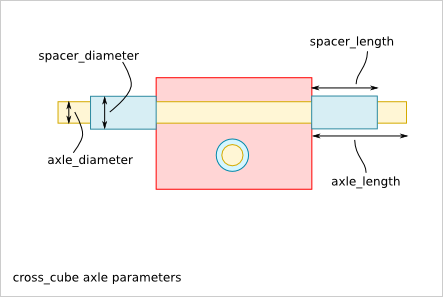
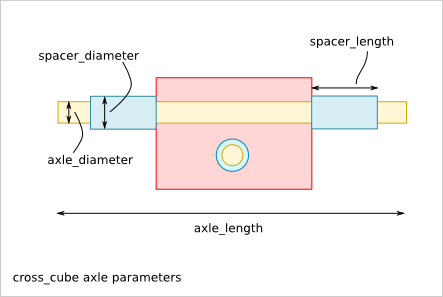
[cross_cube] parameter check

diff --git a/cnc25d/cross_cube.py b/cnc25d/cross_cube.py
@@ -65,10 +65,10 @@ def cross_cube_dictionary_init(ai_variant=0):
   # height
   r_cc['axle_diameter']       = 10.0
   r_cc['inter_axle_length']   = 15.0
-  r_cc['height_margin']       = 6.0
+  r_cc['height_margin']       = 10.0
   r_cc['top_thickness']       = 5.0
   # width
-  r_cc['cube_width']          = 50.0
+  r_cc['cube_width']          = 60.0
   r_cc['face_A1_thickness']   = 9.0
   r_cc['face_A2_thickness']   = 7.0
   r_cc['face_B1_thickness']   = 8.0
@@ -76,28 +76,29 @@ def cross_cube_dictionary_init(ai_variant=0):
   ### threaded rod
   # face
   r_cc['face_rod_hole_diameter']    = 4.0
-  r_cc['face_rod_hole_h_distance']  = 3.0
-  r_cc['face_rod_hole_v_distance']  = 3.0
+  r_cc['face_rod_hole_h_distance']  = 5.0
+  r_cc['face_rod_hole_v_distance']  = 5.0
   # top
   r_cc['top_rod_hole_diameter']     = 4.0
-  r_cc['top_rod_hole_h_distance']   = 8.0
+  r_cc['top_rod_hole_h_distance']   = 10.0
   ### hollow
   # face hollow
   r_cc['face_hollow_leg_nb']            = 1 # possible values: 1 (filled), 4, 8
-  r_cc['face_hollow_border_width']      = 5.0
-  r_cc['face_hollow_axle_width']     = 5.0
-  r_cc['face_hollow_leg_width']         = 5.0
-  r_cc['face_hollow_smoothing_radius']  = 5.0
+  r_cc['face_hollow_border_width']      = 0.0
+  r_cc['face_hollow_axle_width']        = 0.0
+  r_cc['face_hollow_leg_width']         = 0.0
+  r_cc['face_hollow_smoothing_radius']  = 0.0
   # top hollow
   r_cc['top_hollow_leg_nb']             = 0 # possible values: 0 (empty), 1 (filled), 4, 8
-  r_cc['top_hollow_border_width']       = 5.0
-  r_cc['top_hollow_leg_width']          = 5.0
-  r_cc['top_hollow_smoothing_radius']   = 5.0
+  r_cc['top_hollow_border_width']       = 0.0
+  r_cc['top_hollow_leg_width']          = 0.0
+  r_cc['top_hollow_smoothing_radius']   = 0.0
   ### axle
-  r_cc['axle_length']                   = 30.0
-  r_cc['spacer_diameter']               = 14.0
-  r_cc['spacer_length']                 = 20.0
+  r_cc['axle_length']                   = 0.0
+  r_cc['spacer_diameter']               = 0.0
+  r_cc['spacer_length']                 = 0.0
   ### manufacturing
+  r_cc['cross_cube_cnc_router_bit_radius']  = 1.0
   r_cc['cross_cube_extra_cut_thickness']  = 0.0
   ### output
   if(ai_variant!=1):
@@ -124,63 +125,65 @@ def cross_cube_add_argument(ai_parser, ai_variant=0):
     help="Set the diameter of the two axles. Default: 10.0")
   r_parser.add_argument('--inter_axle_length','--ial', action='store', type=float, default=15.0, dest='sw_inter_axle_length',
     help="Set the length length betwen the two axle centers. Default: 15.0")
-  r_parser.add_argument('--height_margin','--hm', action='store', type=float, default=6.0, dest='sw_height_margin',
-    help="Set the length betwen the axle peripheral and the inner edge of the top. Default: 6.0")
+  r_parser.add_argument('--height_margin','--hm', action='store', type=float, default=10.0, dest='sw_height_margin',
+    help="Set the length betwen the axle peripheral and the inner edge of the top. Default: 10.0")
   r_parser.add_argument('--top_thickness','--tt', action='store', type=float, default=5.0, dest='sw_top_thickness',
     help="Set the thickness of the top part. Default: 5.0")
   # width
-  r_parser.add_argument('--cube_width','--cw', action='store', type=float, default=50.0, dest='sw_cube_width',
-    help="Set the outer width of the cube (for x and y). Default: 50.0")
+  r_parser.add_argument('--cube_width','--cw', action='store', type=float, default=60.0, dest='sw_cube_width',
+    help="Set the outer width of the cube (for x and y). Default: 60.0")
   r_parser.add_argument('--face_A1_thickness','--fa1t', action='store', type=float, default=9.0, dest='sw_face_A1_thickness',
-    help="Set the thickness of the face_A1 part. Default: 9.0")
+    help="Set the thickness of the face_A1 part. If equal to 0.0, set to top_thickness. Default: 9.0")
   r_parser.add_argument('--face_A2_thickness','--fa2t', action='store', type=float, default=7.0, dest='sw_face_A2_thickness',
-    help="Set the thickness of the face_A2 part. Default: 7.0")
+    help="Set the thickness of the face_A2 part. If equal to 0.0, set to top_thickness. Default: 7.0")
   r_parser.add_argument('--face_B1_thickness','--fb1t', action='store', type=float, default=8.0, dest='sw_face_B1_thickness',
-    help="Set the thickness of the face_B1 part. Default: 8.0")
+    help="Set the thickness of the face_B1 part. If equal to 0.0, set to top_thickness. Default: 8.0")
   r_parser.add_argument('--face_B2_thickness','--fb2t', action='store', type=float, default=6.0, dest='sw_face_B2_thickness',
-    help="Set the thickness of the face_B2 part. Default: 6.0")
+    help="Set the thickness of the face_B2 part. If equal to 0.0, set to top_thickness. Default: 6.0")
   ### threaded rod
   # face
   r_parser.add_argument('--face_rod_hole_diameter','--frhd', action='store', type=float, default=4.0, dest='sw_face_rod_hole_diameter',
     help="Set the diameter of the holes for threaded rod on the faces. Default: 4.0")
-  r_parser.add_argument('--face_rod_hole_h_distance','--frhhd', action='store', type=float, default=3.0, dest='sw_face_rod_hole_h_distance',
-    help="Set the horizontal position of the threaded rod center from the inner edge. Default: 3.0")
-  r_parser.add_argument('--face_rod_hole_v_distance','--frhvd', action='store', type=float, default=3.0, dest='sw_face_rod_hole_v_distance',
-    help="Set the vertical position of the threaded rod center from the inner edge. Default: 3.0")
+  r_parser.add_argument('--face_rod_hole_h_distance','--frhhd', action='store', type=float, default=5.0, dest='sw_face_rod_hole_h_distance',
+    help="Set the horizontal position of the threaded rod center from the inner edge. Default: 5.0")
+  r_parser.add_argument('--face_rod_hole_v_distance','--frhvd', action='store', type=float, default=5.0, dest='sw_face_rod_hole_v_distance',
+    help="Set the vertical position of the threaded rod center from the inner edge. Default: 5.0")
   # top
   r_parser.add_argument('--top_rod_hole_diameter','--trhd', action='store', type=float, default=4.0, dest='sw_top_rod_hole_diameter',
     help="Set the diameter of the holes for the vertical threaded rods. Default: 4.0")
-  r_parser.add_argument('--top_rod_hole_h_distance','--trhhd', action='store', type=float, default=8.0, dest='sw_top_rod_hole_h_distance',
-    help="Set the horizontal position of the vertical threaded rod center from the inner edge. Default: 8.0")
+  r_parser.add_argument('--top_rod_hole_h_distance','--trhhd', action='store', type=float, default=10.0, dest='sw_top_rod_hole_h_distance',
+    help="Set the horizontal position of the vertical threaded rod center from the inner edge. Default: 10.0")
   ### hollow
   # face hollow
   r_parser.add_argument('--face_hollow_leg_nb','--fhln', action='store', type=int, default=1, dest='sw_face_hollow_leg_nb',
     help="Set the number of legs (equivalent number of hollows) on the faces. Possible values: 1 (filled), 4, 8. Default: 1")
-  r_parser.add_argument('--face_hollow_border_width','--fhbw', action='store', type=float, default=5.0, dest='sw_face_hollow_border_width',
-    help="Set the width around the face-inner-border. Default: 5.0")
-  r_parser.add_argument('--face_hollow_axle_width','--fhaw', action='store', type=float, default=5.0, dest='sw_face_hollow_axle_width',
-    help="Set the width around the axle. Default: 5.0")
-  r_parser.add_argument('--face_hollow_leg_width','--fhlw', action='store', type=float, default=5.0, dest='sw_face_hollow_leg_width',
-    help="Set the width of the legs. Default: 5.0")
-  r_parser.add_argument('--face_hollow_smoothing_radius','--fhsr', action='store', type=float, default=5.0, dest='sw_face_hollow_smoothing_radius',
-    help="Set the radius for smoothing the face-hollow corners. Default: 5.0")
+  r_parser.add_argument('--face_hollow_border_width','--fhbw', action='store', type=float, default=0.0, dest='sw_face_hollow_border_width',
+    help="Set the width around the face-inner-border. If equal to 0.0, set to max_face_top_thickness. Default: 0.0")
+  r_parser.add_argument('--face_hollow_axle_width','--fhaw', action='store', type=float, default=0.0, dest='sw_face_hollow_axle_width',
+    help="Set the width around the axle. If equal to 0.0, set to axle_radius. Default: 0.0")
+  r_parser.add_argument('--face_hollow_leg_width','--fhlw', action='store', type=float, default=0.0, dest='sw_face_hollow_leg_width',
+    help="Set the width of the legs. If equal to 0.0, set to max(max_face_top_thickness, axle_radius). Default: 0.0")
+  r_parser.add_argument('--face_hollow_smoothing_radius','--fhsr', action='store', type=float, default=0.0, dest='sw_face_hollow_smoothing_radius',
+    help="Set the radius for smoothing the face-hollow corners. If equal to 0.0, set to cube_width/10. Default: 0.0")
   # top hollow
   r_parser.add_argument('--top_hollow_leg_nb','--thln', action='store', type=int, default=0, dest='sw_top_hollow_leg_nb',
     help="Set the number of legs (equivalent number of hollows) on the top. Possible values: 0 (empty), 1 (filled), 4, 8. Default: 0")
-  r_parser.add_argument('--top_hollow_border_width','--thbw', action='store', type=float, default=5.0, dest='sw_top_hollow_border_width',
-    help="Set the width around the top-inner-border. Default: 5.0")
-  r_parser.add_argument('--top_hollow_leg_width','--thlw', action='store', type=float, default=5.0, dest='sw_top_hollow_leg_width',
-    help="Set the width of the legs. Default: 5.0")
-  r_parser.add_argument('--top_hollow_smoothing_radius','--thsr', action='store', type=float, default=5.0, dest='sw_top_hollow_smoothing_radius',
-    help="Set the radius for smoothing the top-hollow corners. Default: 5.0")
+  r_parser.add_argument('--top_hollow_border_width','--thbw', action='store', type=float, default=0.0, dest='sw_top_hollow_border_width',
+    help="Set the width around the top-inner-border. If equal to 0.0, set to max_face_thickness. Default: 0.0")
+  r_parser.add_argument('--top_hollow_leg_width','--thlw', action='store', type=float, default=0.0, dest='sw_top_hollow_leg_width',
+    help="Set the width of the legs. If equal to 0.0, set to max_face_thickness. Default: 0.0")
+  r_parser.add_argument('--top_hollow_smoothing_radius','--thsr', action='store', type=float, default=0.0, dest='sw_top_hollow_smoothing_radius',
+    help="Set the radius for smoothing the top-hollow corners. If equal to 0.0, set to cube_width/10. Default: 0.0")
   ### axle
-  r_parser.add_argument('--axle_length','--al', action='store', type=float, default=30.0, dest='sw_axle_length',
-    help="Set the external length of the axles for the left and right sides. Default: 30.0")
-  r_parser.add_argument('--spacer_diameter','--sd', action='store', type=float, default=14.0, dest='sw_spacer_diameter',
-    help="Set the external diameter of the spacer. Default: 14.0")
-  r_parser.add_argument('--spacer_length','--sl', action='store', type=float, default=20.0, dest='sw_spacer_length',
-    help="Set the length of the spacers. Default: 20.0")
+  r_parser.add_argument('--axle_length','--al', action='store', type=float, default=0.0, dest='sw_axle_length',
+    help="Set the total length of the axles. If equal to 0.0, set to 2*cube_width. Default: 0.0")
+  r_parser.add_argument('--spacer_diameter','--sd', action='store', type=float, default=0.0, dest='sw_spacer_diameter',
+    help="Set the external diameter of the spacer. If equal to 0.0, set to 1.2*axle_diameter. Default: 0.0")
+  r_parser.add_argument('--spacer_length','--sl', action='store', type=float, default=0.0, dest='sw_spacer_length',
+    help="Set the length of the spacers. If equal to 0.0, set to (axle_length-cube_width)/4. Default: 0.0")
   ### manufacturing
+  r_parser.add_argument('--cross_cube_cnc_router_bit_radius','--cccrbr', action='store', type=float, default=1.0, dest='sw_cross_cube_cnc_router_bit_radius',
+    help="Set the minimal cnc_router_bit radius of the design. Default: 1.0")
   r_parser.add_argument('--cross_cube_extra_cut_thickness','--ccect', action='store', type=float, default=0.0, dest='sw_cross_cube_extra_cut_thickness',
     help="Set the extra-cut-thickness for the internal cross_cube cuts. It can be used to compensate the manufacturing process or to check the 3D assembly with FreeCAD. Default: 0.0")
   ### output
@@ -214,7 +217,164 @@ def cross_cube(ai_constraints):
   ################################################################
   # parameter check and dynamic-default values
   ################################################################
-
+  ### face A1, A2, B1 and B2
+  ## height
+  # axle_diameter
+  cc_c['axle_radius'] = cc_c['axle_diameter']/2.0
+  if(cc_c['axle_radius']<radian_epsilon):
+    print("ERR220: Error, axle_radius {:0.3f} must be strictly positive".format(cc_c['axle_radius']))
+    sys.exit(2)
+  # inter_axle_length
+  if(cc_c['inter_axle_length']<0):
+    print("ERR224: Error, inter_axle_length {:0.3f} must be positive".format(cc_c['inter_axle_length']))
+    sys.exit(2)
+  if(cc_c['inter_axle_length']<2*cc_c['axle_radius']):
+    print("WARN227: Warning, inter_axle_length {:0.3f} is smaller than the axle_diameter {:0.3f}".format(cc_c['inter_axle_length'], 2*cc_c['axle_radius']))
+  # height_margin
+  if(cc_c['height_margin']<radian_epsilon):
+    print("ERR229: Error, height_margin {:0.3f} must be strictly positive".format(cc_c['height_margin']))
+    sys.exit(2)
+  # top_thickness
+  if(cc_c['top_thickness']<2*cc_c['cross_cube_cnc_router_bit_radius']):
+    print("ERR232: Error, top_thickness {:0.3f} is too small compare to cross_cube_cnc_router_bit_radius {:0.3f}".format(cc_c['top_thickness'], cc_c['cross_cube_cnc_router_bit_radius']))
+    sys.exit(2)
+  if(cc_c['top_thickness']>(cc_c['inter_axle_length']+2*cc_c['axle_radius']+2*cc_c['height_margin'])/4.0):
+    print("ERR235: top_thickness {:0.3f} is too small compare to inter_axle_length {:0.3}, axle_radius {:0.3}, height_margin {:0.3}".format(cc_c['top_thickness'], cc_c['inter_axle_length'], cc_c['axle_radius'], cc_c['height_margin']))
+    sys.exit(2)
+  cube_height = cc_c['inter_axle_length'] + 2*cc_c['axle_radius'] + 2*cc_c['top_thickness']
+  ## width
+  # cube_width
+  if(cc_c['cube_width']<3*cc_c['axle_radius']):
+    print("ERR239: Error, cube_width {:0.3f} is too small compare to axle_radius {:0.3f}".format(cc_c['cube_width'], cc_c['axle_radius']))
+    sys.exit(2)
+  # face_A1_thickness, face_A2_thickness, face_B1_thickness, face_B2_thickness
+  face_thickness = [cc_c['face_A1_thickness'], cc_c['face_A2_thickness'], cc_c['face_B1_thickness'], cc_c['face_B2_thickness']]
+  max_face_thickness = max(face_thickness)
+  max_face_top_thickness = max(max_face_thickness, cc_c['top_thickness'])
+  for i in range(len(face_thickness)):
+    if(face_thickness[i]==0):
+      face_thickness[i] = cc_c['top_thickness']
+    if(face_thickness[i]<2*cc_c['cross_cube_cnc_router_bit_radius']):
+      print("ERR244: Error, face_thickness[{:d}] {:0.3f} is too small compare to cross_cube_cnc_router_bit_radius {:0.3f}".format(i, face_thickness[i], cc_c['cross_cube_cnc_router_bit_radius']))
+      sys.exit(2)
+    if(face_thickness[i]>cc_c['cube_width']/2.0-cc_c['axle_radius']):
+      print("ERR247: Error, face_thickness[{:d}] {:0.3f} is too big compare to cube_width {:0.3f} and axle_radius {:0.3f}".format(i, face_thickness[i], cc_c['cube_width'], cc_c['axle_radius']))
+      sys.exit(2)
+    if(face_thickness[i]>cc_c['cube_width']/6.0):
+      print("ERR250: Error, face_thickness[{:d}] {:0.3f} is too big compare to cube_width {:0.3f}".format(i, face_thickness[i], cc_c['cube_width']))
+      sys.exit(2)
+  ### threaded rod
+  ## face
+  # face_rod_hole_diameter
+  cc_c['face_rod_hole_radius'] = cc_c['face_rod_hole_diameter']/2.0
+  if(cc_c['face_rod_hole_radius']>0):
+    # face_rod_hole_h_distance
+    if(cc_c['face_rod_hole_h_distance']<cc_c['face_rod_hole_radius']):
+      print("ERR257: Error, face_rod_hole_h_distance {:0.3f} must be biggert than face_rod_hole_radius {:0.3f}".format(cc_c['face_rod_hole_h_distance'], cc_c['face_rod_hole_radius']))
+      sys.exit(2)
+    if(max_face_thickness+cc_c['face_rod_hole_h_distance']+cc_c['face_rod_hole_radius']>cc_c['cube_width']/2.0-cc_c['axle_radius']):
+      print("ERR261: Error, face_rod_hole_h_distance {:0.3f} is too big compare to max_face_thickness {:0.3f}, face_rod_hole_radius {:0.3f}, cube_width {:0.3f}, axle_radius {:0.3f}".format(cc_c['face_rod_hole_h_distance'], max_face_thickness, cc_c['face_rod_hole_radius'], cc_c['cube_width'], cc_c['axle_radius']))
+      sys.exit(2)
+    # face_rod_hole_v_distance
+    if(cc_c['face_rod_hole_v_distance']<cc_c['face_rod_hole_radius']):
+      print("ERR264: Error, face_rod_hole_v_distance {:0.3f} must be bigger than face_rod_hole_radius {:0.3f}".format(cc_c['face_rod_hole_v_distance'], cc_c['face_rod_hole_radius']))
+      sys.exit(2)
+    if(cc_c['face_rod_hole_v_distance']+cc_c['face_rod_hole_radius']>cc_c['height_margin']):
+      print("ERR267: Error, face_rod_hole_v_distance {:0.3f} is too big compare to face_rod_hole_radius {:0.3f} and height_margin {:0.3f}".format(cc_c['face_rod_hole_v_distance'], cc_c['face_rod_hole_radius'], cc_c['height_margin']))
+      sys.exit(2)
+  ## top
+  # top_rod_hole_diameter
+  cc_c['top_rod_hole_radius'] = cc_c['top_rod_hole_diameter']/2.0
+  if(cc_c['top_rod_hole_radius']>0):
+    # top_rod_hole_h_distance
+    if(cc_c['top_rod_hole_h_distance']<cc_c['face_rod_hole_h_distance']+cc_c['face_rod_hole_radius']+cc_c['top_rod_hole_radius']):
+      print("ERR273: Error, top_rod_hole_h_distance {:0.3f} is too small compare to face_rod_hole_h_distance {:0.3f}, face_rod_hole_radius {:0.3f} and top_rod_hole_radius {:0.3f}".format(cc_c['top_rod_hole_h_distance'], cc_c['face_rod_hole_h_distance'], cc_c['face_rod_hole_radius'], cc_c['top_rod_hole_radius']))
+      sys.exit(2)
+    if(max_face_thickness+cc_c['top_rod_hole_h_distance']+cc_c['top_rod_hole_radius']>cc_c['cube_width']/2.0-cc_c['axle_radius']):
+      print("ERR276: Error, top_rod_hole_h_distance {:0.3f} is too big compare to max_face_thickness {:0.3f}, top_rod_hole_radius {:0.3f}, cube_width {:0.3f} and axle_radius {:0.3f}".format(cc_c['top_rod_hole_h_distance'], max_face_thickness, cc_c['top_rod_hole_radius'], cc_c['cube_width'], cc_c['axle_radius']))
+      sys.exit(2)
+  ### hollow
+  ## face hollow
+  # face_hollow_leg_nb
+  if(not(cc_c['face_hollow_leg_nb'] in [1, 4, 8])):
+    print("ERR281: Error, face_hollow_leg_nb {:d} accepts only the values: 1, 4 or 8".format(cc_c['face_hollow_leg_nb']))
+    sys.exit(2)
+  # face_hollow_border_width
+  if(cc_c['face_hollow_border_width']==0):
+    cc_c['face_hollow_border_width'] = max_face_top_thickness
+  if(cc_c['face_hollow_border_width']<radian_epsilon):
+    print("ERR283: Error, face_hollow_border_width {:0.3f} must be strictly positive".format(cc_c['face_hollow_border_width']))
+    sys.exit(2)
+  # face_hollow_axle_width
+  if(cc_c['face_hollow_axle_width']==0):
+    cc_c['face_hollow_axle_width'] = cc_c['axle_radius']
+  if(cc_c['face_hollow_axle_width']<radian_epsilon):
+    print("ERR292: Error, face_hollow_axle_width {:0.3f} must be strictly positive".format(cc_c['face_hollow_axle_width']))
+    sys.exit(2)
+  # face_hollow_leg_width
+  if(cc_c['face_hollow_leg_width']==0):
+    cc_c['face_hollow_leg_width'] = max(cc_c['face_hollow_border_width'], cc_c['face_hollow_axle_width'])
+  if(cc_c['face_hollow_leg_width']<radian_epsilon):
+    print("ERR297: Error, face_hollow_leg_width {:0.3f} must be strictly positive".format(cc_c['face_hollow_leg_width']))
+    sys.exit(2)
+  # face_hollow_smoothing_radius
+  if(cc_c['face_hollow_smoothing_radius']==0):
+    cc_c['face_hollow_smoothing_radius'] = cc_c['cube_width']/10.0
+  if(cc_c['face_hollow_smoothing_radius']<cc_c['cross_cube_cnc_router_bit_radius']):
+    print("ERR302: Error, face_hollow_smoothing_radius {:0.3f} must be bigger than cross_cube_cnc_router_bit_radius {:0.3f}".format(cc_c['face_hollow_smoothing_radius'], cc_c['cross_cube_cnc_router_bit_radius']))
+    sys.exit(2)
+  ## top hollow
+  # top_hollow_leg_nb
+  if(not(cc_c['top_hollow_leg_nb'] in [0, 1, 4, 8])):
+    print("ERR325: Error, top_hollow_leg_nb {:d} accepts only the values: 0, 1, 4, 8".format(cc_c['top_hollow_leg_nb']))
+    sys.exit(2)
+  # top_hollow_border_width
+  if(cc_c['top_hollow_border_width']==0):
+    cc_c['top_hollow_border_width'] = max_face_thickness
+  if(cc_c['top_hollow_border_width']<radian_epsilon):
+    print("ERR332: Error, top_hollow_border_width {:0.3f} must be strictly positive".format(cc_c['top_hollow_border_width']))
+    sys.exit(2)
+  # top_hollow_leg_width
+  if(cc_c['top_hollow_leg_width']==0):
+    cc_c['top_hollow_leg_width'] = cc_c['top_hollow_border_width']
+  if(cc_c['top_hollow_leg_width']<radian_epsilon):
+    print("ERR338: Error, top_hollow_leg_width {:0.3f} must be strictly positive".format(cc_c['top_hollow_leg_width']))
+    sys.exit(2)
+  # top_hollow_smoothing_radius
+  if(cc_c['top_hollow_smoothing_radius']==0):
+    cc_c['top_hollow_smoothing_radius'] = cc_c['cube_width']/10.0
+  if(cc_c['top_hollow_smoothing_radius']<cc_c['cross_cube_cnc_router_bit_radius']):
+    print("ERR344: Error, top_hollow_smoothing_radius {:0.3f} must be bigger than cross_cube_cnc_router_bit_radius {:0.3f}".format(cc_c['top_hollow_smoothing_radius'], cc_c['cross_cube_cnc_router_bit_radius']))
+    sys.exit(2)
+  ### axle
+  # axle_length
+  if(cc_c['axle_length']==0):
+    cc_c['axle_length'] = 2*cc_c['cube_width']
+  if(cc_c['axle_length']<cc_c['cube_width']):
+    print("ERR349: Error, axle_length {:0.3f} must be bigger than cube_width {:0.3f}".format(cc_c['axle_length'], cc_c['cube_width']))
+    sys.exit(2)
+  # spacer_diameter
+  cc_c['spacer_radius'] = cc_c['spacer_diameter']/2.0
+  if(cc_c['spacer_radius']>0):
+    if(cc_c['spacer_radius']==0):
+      cc_c['spacer_radius'] = 2.4*cc_c['axle_radius']
+    if(cc_c['spacer_radius']<cc_c['axle_radius']+radian_epsilon):
+      print("ERR357: Error, spacer_radius {:0.3f} must be bigger than axle_radius {:0.3f}".format(cc_c['spacer_radius'], cc_c['axle_radius']))
+      sys.exit(2)
+    if(cc_c['spacer_length']==0):
+      cc_c['spacer_length'] = (cc_c['axle_length']-cc_c['cube_width'])/4.0
+    if(cc_c['spacer_length']<radian_epsilon):
+      print("ERR360: Error, spacer_length {:0.3f} must be strictly positive".format(cc_c['spacer_length']))
+      sys.exit(2)
+    if(cc_c['spacer_length']>(cc_c['axle_length']-cc_c['cube_width'])/2.0):
+      print("ERR363: Error, spacer_length {:0.3f} is too big compare to axle_length {:0.3f} and cube_width {:0.3f}".format(cc_c['spacer_length'], cc_c['axle_length'], cc_c['cube_width']))
+      sys.exit(2)
+  ### manufacturing
+  # cross_cube_cnc_router_bit_radius
+  # cross_cube_extra_cut_thickness
+  if(abs(cc_c['cross_cube_extra_cut_thickness'])>min(cc_c['cube_width']/5.0, cube_height/4.0)/3.0):
+    print("ERR369: Error, cross_cube_extra_cut_thickness {:0.3} absolute value is too big compare to cube_width {:0.3f} and cube_height {:0.3f}".format(cc_c['cross_cube_extra_cut_thickness'], cc_c['cube_width'], cube_height))
+    sys.exit(2)
   ################################################################
   # outline construction
   ################################################################
